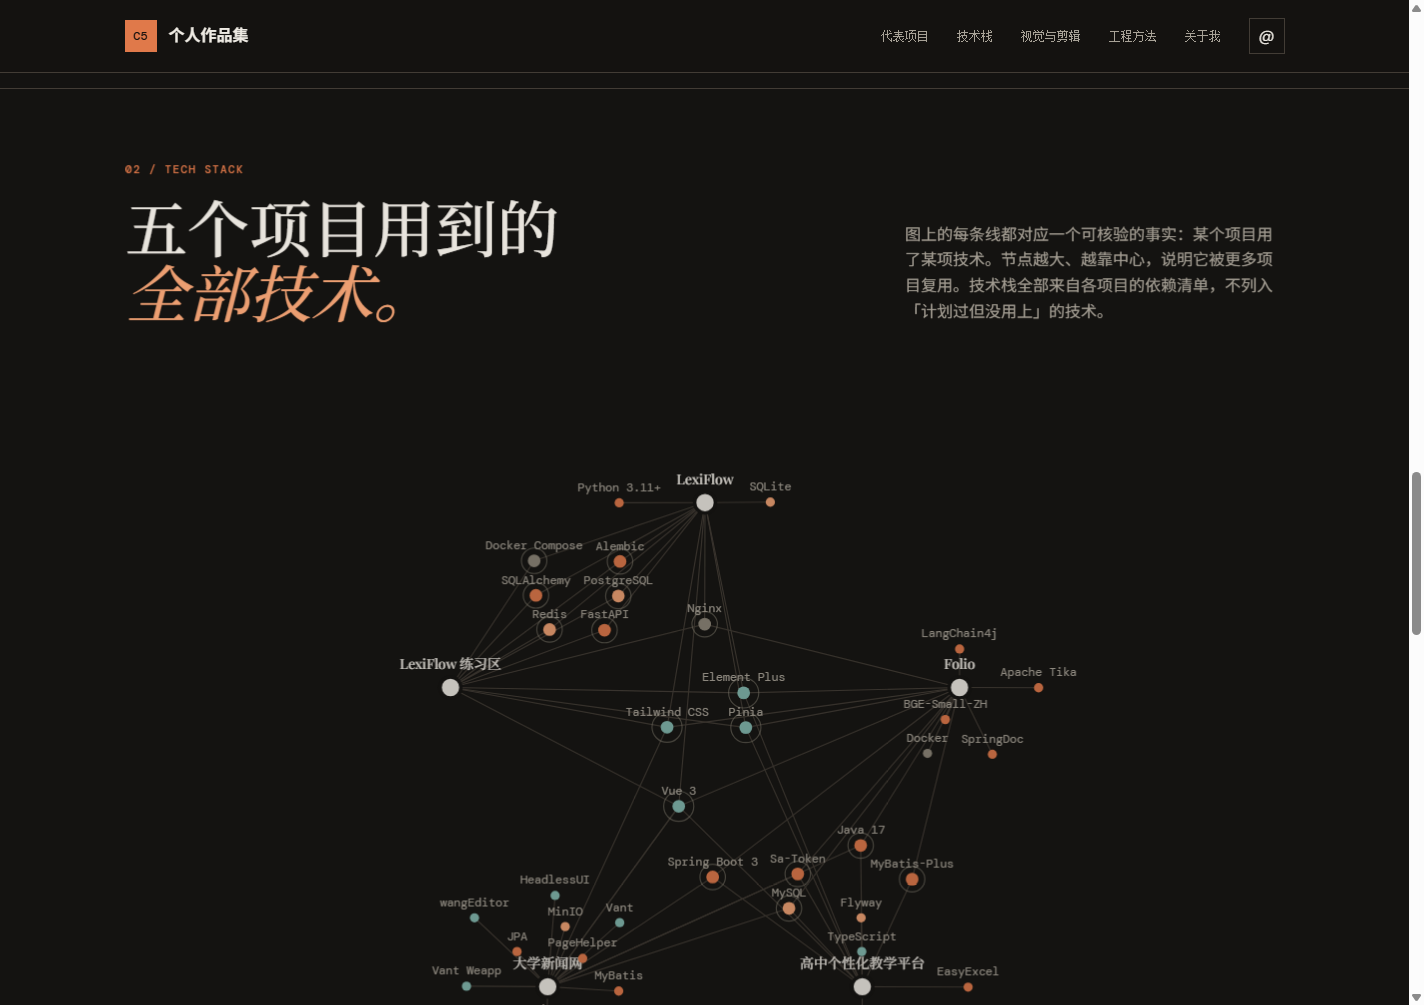
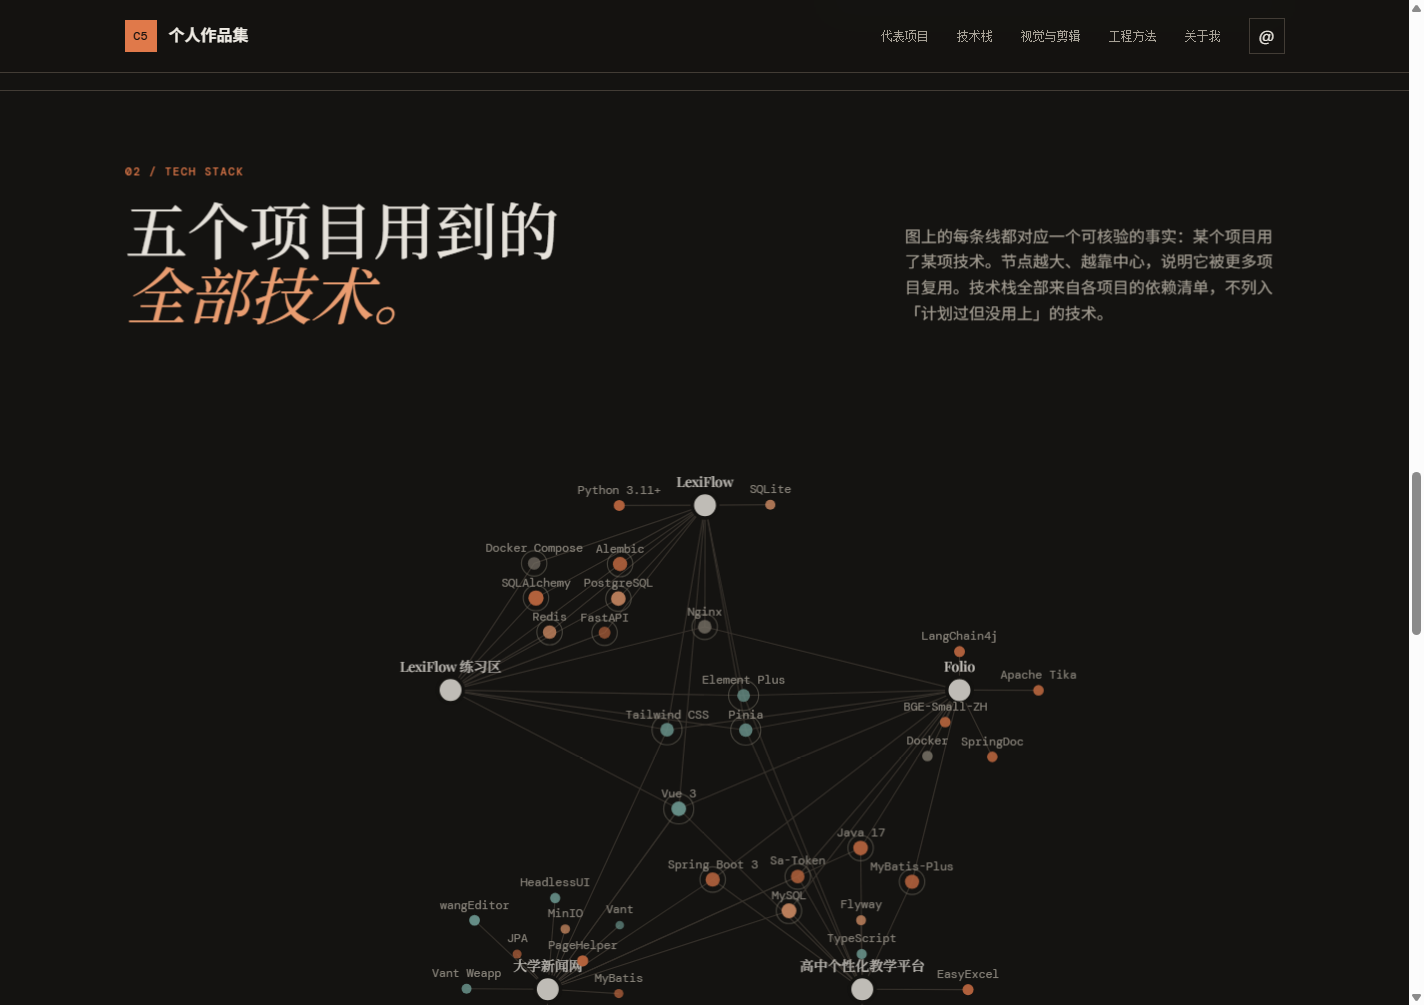
feat: 技术网络图加 3D 纵深感，并修正漂移方向（节点不再逃离光标）
一、修正一个真实缺陷：漂移方向搞反了

所有者反馈「悬停到具体的图标不要移动啊，我想点击它它一直跑」。

根因不是参数没调好，而是方向错了：第一版把漂移做成**径向**——把节点推离光标，
于是节点逃得越来越远，根本点不到。

改为**切向**（绕光标流动）：位移不改变节点到光标的距离，既有流动感又点得到。
并加断言守住：悬停节点的内层 translate 必须为 0（实测 0）。
没有这条断言，很容易又被改回径向。

二、3D 纵深感（所有者要求"漂浮、跟随鼠标"）

- 整张图随鼠标倾斜（±7°/±5° 透视旋转），容器级 transform，不影响节点基准坐标
- 每个节点有一个由 id 哈希派生的**固定深度**，决定点径（0.78~1.22 倍）与填充透明度
  用哈希而非随机：深度每次构建必须相同，否则依赖几何的断言不再可靠
- 靠近光标的节点略微变大（最多 1.38 倍），强化"跟随鼠标"的感觉
- 悬停节点仍保持放大 1.5 倍且**完全不位移**

三、分层结构仍然成立（这是能同时"动"与"可测"的原因）

外层 <g> 基准坐标任何时候不改（断言读它），动画与倾斜只写内层与容器。
本轮新增两条断言：
- 悬停的节点不会被推开（点得到）→ 实测 0
- 容器随鼠标倾斜（3D 感）→ 读的是容器实际计算样式，不是"有没有写这段代码"

prefers-reduced-motion 下倾斜与漂移全部取消。

验收：61 → 63 项，全部通过。

diff --git a/project/frontend/src/components/TechGraph.vue b/project/frontend/src/components/TechGraph.vue
@@ -8,9 +8,9 @@ const props = defineProps({
 
 const GRAPH_WIDTH = 1000
 const GRAPH_HEIGHT = 680
-const PROXIMITY = 76      // 鼠标离节点多近算"靠近"
-const DRIFT_RADIUS = 210  // 鼠标影响范围：这个半径内的节点会被推开一点
-const DRIFT_STRENGTH = 20 // 推开的最大距离（画布单位）
+const PROXIMITY = 110     // 鼠标离节点多近算"悬停"（比漂移半径小，避免刚靠近就被推开）
+const DRIFT_RADIUS = 220  // 漂移影响半径：这个范围内的节点会绕开光标流动
+const DRIFT_STRENGTH = 14 // 切向漂移的最大位移（画布单位）
 const HOVER_SCALE = 1.5   // 悬停节点放大倍数
 const NEIGHBOUR_SCALE = 1.14
 
@@ -153,19 +153,30 @@ function recomputeTargets() {
     else if (neighbours.has(node.id)) want.scale = NEIGHBOUR_SCALE
     else want.scale = 1
 
-    // 2) 鼠标附近的技术节点被轻轻推开（项目节点钉住不动，它们是图的骨架）
     want.dx = 0
     want.dy = 0
-    if (pointerX !== null && node.kind === 'tech') {
-      const dx = node.x - pointerX
-      const dy = node.y - pointerY
-      const distance = Math.hypot(dx, dy)
-      if (distance < DRIFT_RADIUS && distance > 0.01) {
-        const falloff = (1 - distance / DRIFT_RADIUS) ** 2
-        const push = falloff * DRIFT_STRENGTH
-        want.dx = (dx / distance) * push
-        want.dy = (dy / distance) * push
-      }
+
+    if (pointerX === null || node.kind !== 'tech') continue
+
+    const dx = node.x - pointerX
+    const dy = node.y - pointerY
+    const distance = Math.hypot(dx, dy)
+    if (distance >= DRIFT_RADIUS || distance <= 1) continue
+    const falloff = (1 - distance / DRIFT_RADIUS) ** 2
+
+    // 2) 靠近光标的节点略微变大——强化"跟随鼠标"的纵深感
+    //    悬停的那个节点不参与（它的倍数已经由上面决定，且不能变来变去）
+    if (node.id !== focus) {
+      want.scale = Math.max(want.scale, 1 + 0.38 * falloff)
+    }
+
+    // 3) 绕开光标流动。用**切向**而不是径向：
+    //    径向会把节点推离光标，于是"想点的节点一直跑"，越靠近跑得越远（实际踩过的缺陷）。
+    //    切向位移不改变节点到光标的距离，所以既有流动感，又一直点得到。
+    if (node.id !== focus) {
+      const push = falloff * DRIFT_STRENGTH
+      want.dx = (-dy / distance) * push
+      want.dy = (dx / distance) * push
     }
   }
 }
@@ -188,6 +199,29 @@ function toGraphCoords(event) {
   }
 }
 
+// 整张图随鼠标倾斜，形成 3D 纵深感。角度很小（±7°/±5°）——
+// 再大就会影响读坐标、也会让标签看起来歪。
+const tiltX = ref(0)
+const tiltY = ref(0)
+const svgStyle = computed(() => {
+  if (prefersReducedMotion()) return {}
+  if (tiltX.value === 0 && tiltY.value === 0) return {}
+  return {
+    transform: `perspective(1300px) rotateX(${tiltX.value.toFixed(2)}deg) rotateY(${tiltY.value.toFixed(2)}deg)`,
+  }
+})
+
+// 点的大小与填充受"深度"影响，配合倾斜读出远近
+function dotRadius(node) {
+  const depth = node.depth ?? 0.6
+  const base = node.kind === 'project' ? 9 : (node.reuse > 1 ? 5.5 : 4)
+  return Number((base * (0.78 + 0.44 * depth)).toFixed(2))
+}
+function dotFillOpacity(node) {
+  const depth = node.depth ?? 0.6
+  return Number((0.5 + 0.5 * depth).toFixed(2))
+}
+
 function onPointerMove(event) {
   if (prefersReducedMotion()) return
   const point = toGraphCoords(event)
@@ -208,6 +242,9 @@ function onPointerMove(event) {
     hoverId.value = nearest ? nearest.id : null
   }
   recomputeTargets()
+  // 倾斜跟随鼠标在画布中的相对位置
+  tiltY.value = (point.x / GRAPH_WIDTH - 0.5) * 14
+  tiltX.value = -((point.y / GRAPH_HEIGHT - 0.5) * 10)
   startLoop()
 }
 
@@ -215,6 +252,8 @@ function onPointerLeave() {
   pointerX = null
   pointerY = null
   if (!lockedId.value) hoverId.value = null
+  tiltX.value = 0
+  tiltY.value = 0
   resetTargets()
   startLoop()
 }
@@ -270,6 +309,7 @@ const textOutline = computed(() =>
     <svg
       ref="svgRef"
       class="graph-canvas"
+      :style="svgStyle"
       :viewBox="`0 0 ${GRAPH_WIDTH} ${GRAPH_HEIGHT}`"
       role="group"
       aria-label="技术网络图：项目与技术之间的使用关系，下方有等价的文字版清单"
@@ -303,7 +343,7 @@ const textOutline = computed(() =>
             node.kind === 'project' ? 'is-project' : 'is-tech',
             node.kind === 'tech' ? `is-${node.group}` : '',
             node.kind === 'tech' && node.reuse > 1 ? 'is-shared' : '',
-            { 'is-lit': litNodes && litNodes.has(node.id), 'is-dim': litNodes && !litNodes.has(node.id) },
+            { 'is-focused': node.id === focusedId, 'is-lit': litNodes && litNodes.has(node.id), 'is-dim': litNodes && !litNodes.has(node.id) },
           ]"
           tabindex="0"
           role="button"
@@ -317,7 +357,7 @@ const textOutline = computed(() =>
           <!-- 动画只写这一层的 transform，外层基准坐标保持不变 -->
           <g class="node-inner">
             <circle v-if="node.kind === 'tech' && node.reuse > 1" class="node-halo" :r="node.reuse > 3 ? 13 : 11" />
-            <circle class="node-dot" :r="node.kind === 'project' ? 9 : (node.reuse > 1 ? 5.5 : 4)" />
+            <circle class="node-dot" :r="dotRadius(node)" :fill-opacity="dotFillOpacity(node)" />
             <text class="graph-label" :y="node.kind === 'project' ? -16 : -10">{{ node.kind === 'project' ? node.shortLabel : node.label }}</text>
           </g>
         </g>
@@ -326,7 +366,7 @@ const textOutline = computed(() =>
 
     <p class="graph-status" aria-live="polite">
       <template v-if="focusedNode">{{ focusText(focusedNode) }}</template>
-      <template v-else>鼠标移到节点上看它用在哪里、附近节点会轻轻让开；点击可锁定，再点空白取消</template>
+      <template v-else>鼠标移到节点上会放大并高亮它用在哪里；附近其它节点绕开光标流动。点击可锁定，再点空白取消</template>
     </p>
 
     <details class="graph-outline">

diff --git a/project/frontend/src/style.css b/project/frontend/src/style.css
@@ -82,7 +82,7 @@ a.project-card:focus-visible{outline:2px solid var(--warm);outline-offset:3px}
    节点用真实 DOM（SVG）而不是 canvas：可聚焦、有 aria-label、可断言，
    屏幕阅读器能读到；canvas 对它完全不可见。 */
 .stack-section{padding:72px 0}
-.graph-canvas{display:block;width:100%;height:auto;overflow:visible}
+.graph-canvas{display:block;width:100%;height:auto;overflow:visible;transform-style:preserve-3d;transition:transform .2s ease-out;will-change:transform}
 .graph-edge{stroke:var(--line);stroke-width:1;transition:stroke .18s ease,opacity .18s ease}
 .graph-edge.is-lit{stroke:var(--warm-soft);stroke-width:1.6}
 .graph-edge.is-dim{opacity:.18}
@@ -108,7 +108,7 @@ a.project-card:focus-visible{outline:2px solid var(--warm);outline-offset:3px}
 .outline-group h3{margin:0 0 4px;font:500 15px var(--serif)}
 .outline-group p{margin:0;color:var(--muted);font-size:13px}
 @media(max-width:900px){.stack-section{padding:52px 0}.graph-label{display:none}}
-@media(prefers-reduced-motion:reduce){.graph-edge,.graph-node .node-dot,.graph-label{transition:none}}
+@media(prefers-reduced-motion:reduce){.graph-edge,.graph-node .node-dot,.graph-label{transition:none}.graph-canvas{transition:none;transform:none!important}}
 .detail-card{border:1px solid var(--line);background:var(--panel);padding:24px}
 .detail-card h3{margin:0 0 10px;font:500 17px/1.3 var(--serif)}
 .detail-card p{margin:0;color:var(--muted);font-size:14px}

diff --git a/project/frontend/src/data/techGraph.js b/project/frontend/src/data/techGraph.js
@@ -20,6 +20,18 @@ function layerGroup(layer) {
   return 'other'
 }
 
+// 由 id 派生一个稳定的 0~1 数值，用作"深度"。
+// 用哈希而不是随机数：深度每次构建必须相同，否则节点大小会变，
+// 依赖几何的断言（标签不重叠、坐标在界内）就不再可靠。
+function hash01(text) {
+  let hash = 2166136261
+  for (let index = 0; index < text.length; index += 1) {
+    hash ^= text.charCodeAt(index)
+    hash = Math.imul(hash, 16777619)
+  }
+  return ((hash >>> 0) % 1000) / 1000
+}
+
 // 一个技术项里可能写着两个技术（如 "SQLite / PostgreSQL"），拆开分别建节点。
 // 不拆分会让同一类技术出现两个名字不同的节点，图上看不出它们是同类。
 function splitItems(item) {
@@ -74,6 +86,12 @@ export function buildTechGraph(projects) {
     tech.group = [...tech.groups][0]
     tech.reuse = tech.projects.length
     delete tech.groups
+  }
+
+  // 深度：用于点径与填充透明度，配合容器倾斜形成 3D 纵深感。
+  // 项目节点固定在"最前"，它们是骨架，不该显得比技术节点远。
+  for (const node of nodes) {
+    node.depth = node.kind === 'project' ? 1 : 0.35 + hash01(node.id) * 0.65
   }
 
   return { nodes, edges }

diff --git a/doc/26-tech-graph-design.md b/doc/26-tech-graph-design.md
@@ -79,14 +79,27 @@ stack: [{ layer: '前端', items: ['Vue 3'], note: '…' }, …]
 
 | 输入 | 行为 |
 |---|---|
-| **鼠标在图上移动** | **邻近高亮**：最近的节点及其所有连边高亮，其余变暗 |
-| **悬停节点** | 该节点**放大到 1.5 倍**，相邻节点放大到 1.14 倍，并显示"用于：LexiFlow、Folio、知衡" |
-| **鼠标附近的节点** | 以鼠标为中心、半径 210 单位内的**技术节点被轻轻推开**（最多 20 单位，越近推得越多）。项目节点钉住不动——它们是图的骨架 |
+| **鼠标在图上移动** | 整张图**随鼠标倾斜**（±7°/±5° 透视旋转）形成 3D 纵深感；最近的节点及其连边高亮 |
+| **悬停节点** | 该节点**放大到 1.5 倍**且**完全不位移**（必须是稳定落点）；相邻节点 1.14 倍 |
+| **鼠标附近的其它节点** | 以鼠标为中心、半径 220 单位内**绕光标切向流动**（最多 14 单位），越近越明显，同时略微变大——形成"跟随鼠标"的纵深感 |
+| 深度感 | 每个节点有一个由 id 哈希派生的固定**深度**，决定点径（0.78~1.22 倍）与填充透明度。用哈希而非随机：深度必须每次构建相同，否则依赖几何的断言不再可靠 |
 | 点击节点 | **锁定**高亮（移动鼠标不再改变）；再点一次或点空白解除 |
 | **键盘 Tab** | 逐个聚焦节点（`tabindex="0"`），焦点样式用既有 `focus-visible` |
 | **Enter / Space** | 等同于点击（锁定／解除） |
 | **Esc** | 清除锁定 |
 | 触摸 | 点击 = 点击节点 |
+
+### 一次真实缺陷：漂移方向搞反了
+
+第一版把漂移做成**径向**（把节点推离光标），结果项目所有者反馈：
+
+> 「悬停到具体的图标不要移动啊，我想点击它它一直跑」
+
+**这是设计错误，不是参数没调好**——径向漂移会让节点逃离光标，越靠近跑得越远，根本点不到。
+改为**切向**后：位移不改变节点到光标的距离，所以既有流动感，又一直点得到。
+
+并加了断言守住这一点：悬停节点的内层 `translate` 必须为 0（实测 0）。
+**没有这条断言，很容易又改回径向。**
 
 ### 动画与可测性如何共存（本节记录一次设计变更）
 
